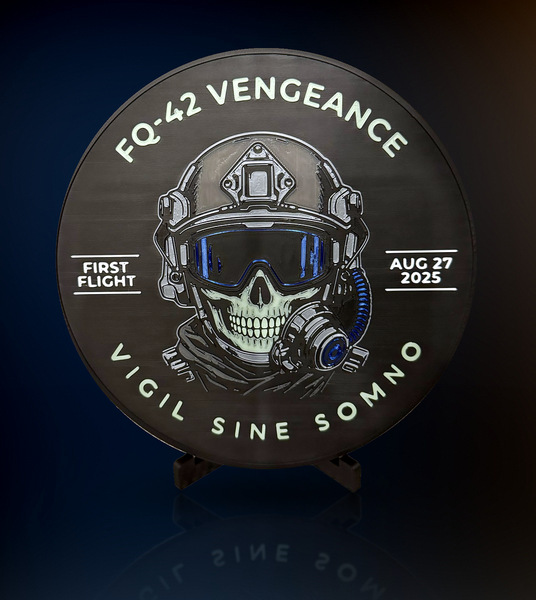
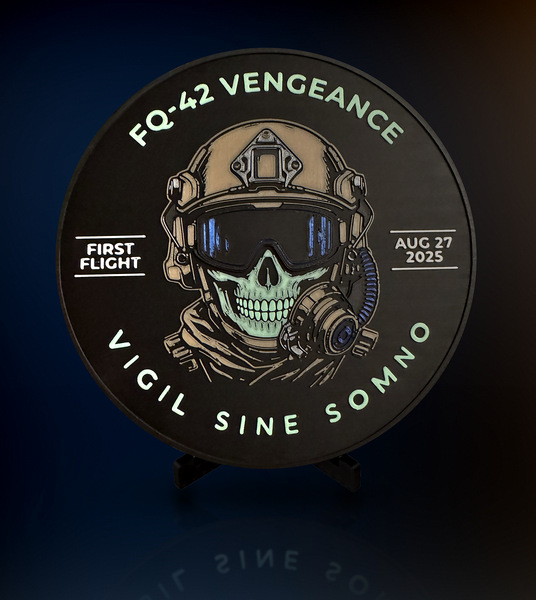
FQ-42 Vengeance: new print photo as hero, thumb and gallery

Changed region(s): [[0.0896, 0.06, 0.8955, 0.75], [0.7164, 0.69, 0.7463, 0.72]]

diff --git a/index.html b/index.html
@@ -43,7 +43,7 @@ footer{text-align:center;color:#6b7180;font-size:.85rem;padding:0 20px 32px;max-
   <div class="grid">
     <!-- One card per plaque. Add new ones here. -->
     <a class="card" href="b21/"><img src="b21/thumb.jpg" alt="B-21 Raider plaque" loading="lazy"><div class="info"><span class="name">B-21 Raider</span><span class="price">$35</span></div><span class="status">Umbra Mortis<span class="tr">&ldquo;Shadow of Death&rdquo;</span><span class="feat">Glow-in-the-dark &middot; Magnetic</span></span></a>
-    <a class="card" href="maverick/"><img src="maverick/thumb.jpg" alt="FQ-42 Vengeance plaque, Vigil Sine Somno design" loading="lazy"><div class="info"><span class="name">FQ-42 Vengeance</span><span class="price">$25</span></div><span class="status">Vigil Sine Somno<span class="tr">&ldquo;Sentinel Without Sleep&rdquo;</span><span class="feat">Glow-in-the-dark &middot; Magnetic</span></span></a>
+    <a class="card" href="maverick/"><img src="maverick/thumb.jpg?v=2" alt="FQ-42 Vengeance plaque, Vigil Sine Somno design" loading="lazy"><div class="info"><span class="name">FQ-42 Vengeance</span><span class="price">$25</span></div><span class="status">Vigil Sine Somno<span class="tr">&ldquo;Sentinel Without Sleep&rdquo;</span><span class="feat">Glow-in-the-dark &middot; Magnetic</span></span></a>
     <a class="card" href="fq42/"><img src="fq42/thumb.jpg" alt="FQ-42 Vengeance plaque" loading="lazy"><div class="info"><span class="name">FQ-42 Vengeance</span><span class="price">$30</span></div><span class="status">Ultio Insomnis<span class="tr">&ldquo;Sleepless Vengeance&rdquo;</span><span class="feat">Glow-in-the-dark &middot; Magnetic</span></span></a>
   </div>
   <p class="contact">Questions or orders: <a href="mailto:nozzleworksstudio@gmail.com?subject=NozzleWorks%20plaque">nozzleworksstudio@gmail.com</a><br>Cash App: <a href="https://cash.app/$heyrobbytheguy">$heyrobbytheguy</a></p>

diff --git a/maverick/index.html b/maverick/index.html
@@ -51,7 +51,7 @@ footer .brand{margin-top:10px;color:#6b7180;letter-spacing:.06em}
 <body>
 <a class="brandbar" href="../"><span class="tile"><img src="../logo.svg" alt=""></span><span class="wm">NozzleWorksStudio</span></a>
 <div class="hero">
-  <img src="studio-real.jpg" width="1200" height="1200" alt="The real FQ-42 Vengeance plaque on its stand, on a dark studio background">
+  <img src="studio-real.jpg?v=2" width="1200" height="1200" alt="The real FQ-42 Vengeance plaque on its stand, on a dark studio background">
 </div>
 <main>
   <header>
@@ -80,7 +80,7 @@ footer .brand{margin-top:10px;color:#6b7180;letter-spacing:.06em}
   <section>
     <h2>Gallery</h2>
     <div class="gallery" style="grid-template-columns:1fr;max-width:700px;margin:0 auto">
-      <figure><img src="real-photo.jpg" width="1500" height="1584" loading="lazy" alt="The real FQ-42 Vengeance plaque on its stand"><figcaption>The real plaque on its stand</figcaption></figure>
+      <figure><img src="real-photo.jpg?v=2" width="1200" height="1200" loading="lazy" alt="The real FQ-42 Vengeance plaque, photographed at night"><figcaption>The real plaque, latest print</figcaption></figure>
       <figure>
         <video src="vengeance-glow.mp4" width="720" height="720" controls playsinline muted preload="metadata" poster="vengeance-glow-poster.jpg">Your browser does not support the video tag.</video>
         <figcaption>Glow under UV light, then room light</figcaption>
